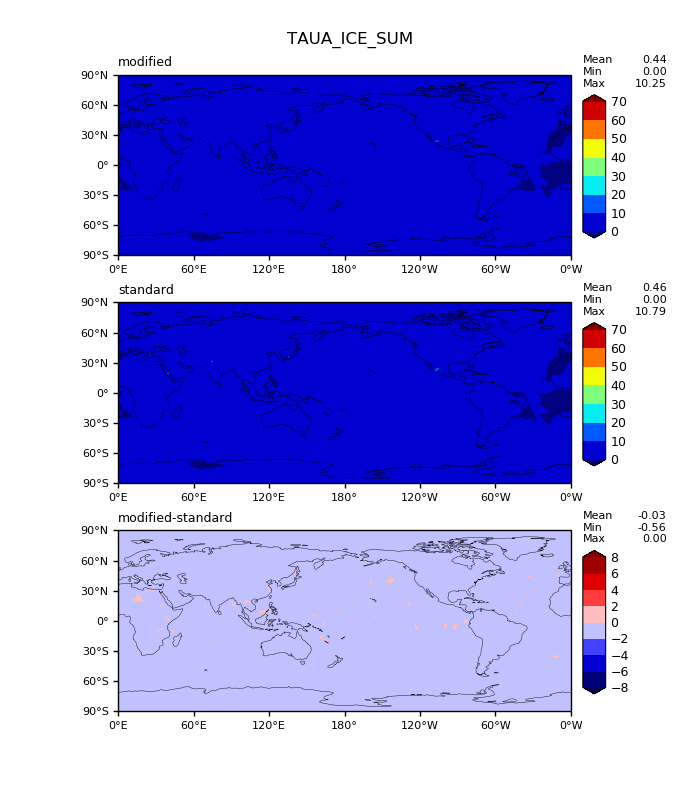
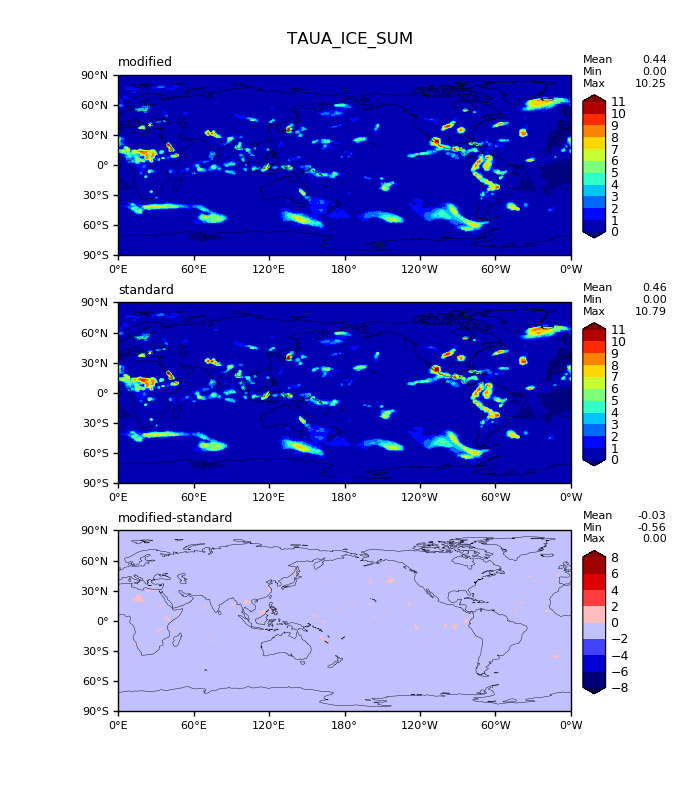
plot tau_ice lwcf

Changed region(s): [[0.15, 0.375, 0.9, 0.625], [0.15, 0.0938, 0.9, 0.3438]]

diff --git a/d1_lon_lat_contour_model_vs_model_sgl.py b/d1_lon_lat_contour_model_vs_model_sgl.py
@@ -24,7 +24,7 @@ from get_parameters import get_area_mean_min_max
 ctl_name="standard" #os.environ["ctl_name"]
 exp_name="modified" #os.environ["exp_name"]
 fpath_ctl='/global/cscratch1/sd/xianwen/E3SM_simulations/E3SM_v2_alpha_AMIP_RRTMG_UMRad_startover.ne30_ne30.cori-knl/archive/remap_180x360_orig/'
-fpath_exp='/global/cscratch1/sd/xianwen/E3SM_simulations/E3SM_v2_alpha_AMIP_RRTMG_UMRad_startover.ne30_ne30.cori-knl/archive/remap_180x360_UMRad_scat/'
+fpath_exp='/global/cscratch1/sd/xianwen/E3SM_simulations/E3SM_v2_alpha_AMIP_RRTMG_UMRad_startover.ne30_ne30.cori-knl/archive/remap_180x360_UMRad/'
 
 #fpath_exp="../../E3SM_output/E3SM_coupled_restart_20TR_Yr2000-Scat.Year2000_2014/climo/"
  

diff --git a/d1_lon_lat_contour_model_vs_model_tau.py b/d1_lon_lat_contour_model_vs_model_tau.py
@@ -48,7 +48,7 @@ lon=file_ctl.variables["lon"]
 lev=file_ctl.variables["lev"]
 
 #varnm="FSSDCLRS14"
-varnm="TAU_SNO_SUM"
+varnm="TAUA_ICE_SUM"
 #varnm_off="LWCF_OFF"  #offline computation
 #units=r"W/m$^2$"
 units=""
@@ -110,8 +110,8 @@ for i in range(0,3):
         #cnlevels=np.array([0,10,20,30,40,50,60]) #parameters["contour_levs"]
         #cnlevels=np.arange(125,300,20)
         #cnlevels=np.arange(70,420,30)
-        #cnlevels=np.arange(20,150,10)
-        cnlevels=np.arange(0,80,10)
+        cnlevels=np.arange(0,12,1)
+        #cnlevels=np.arange(0,80,10)
     else:
         #cnlevels=np.arange(-9,10,1.5)
         cnlevels=np.arange(-8,10,2)
